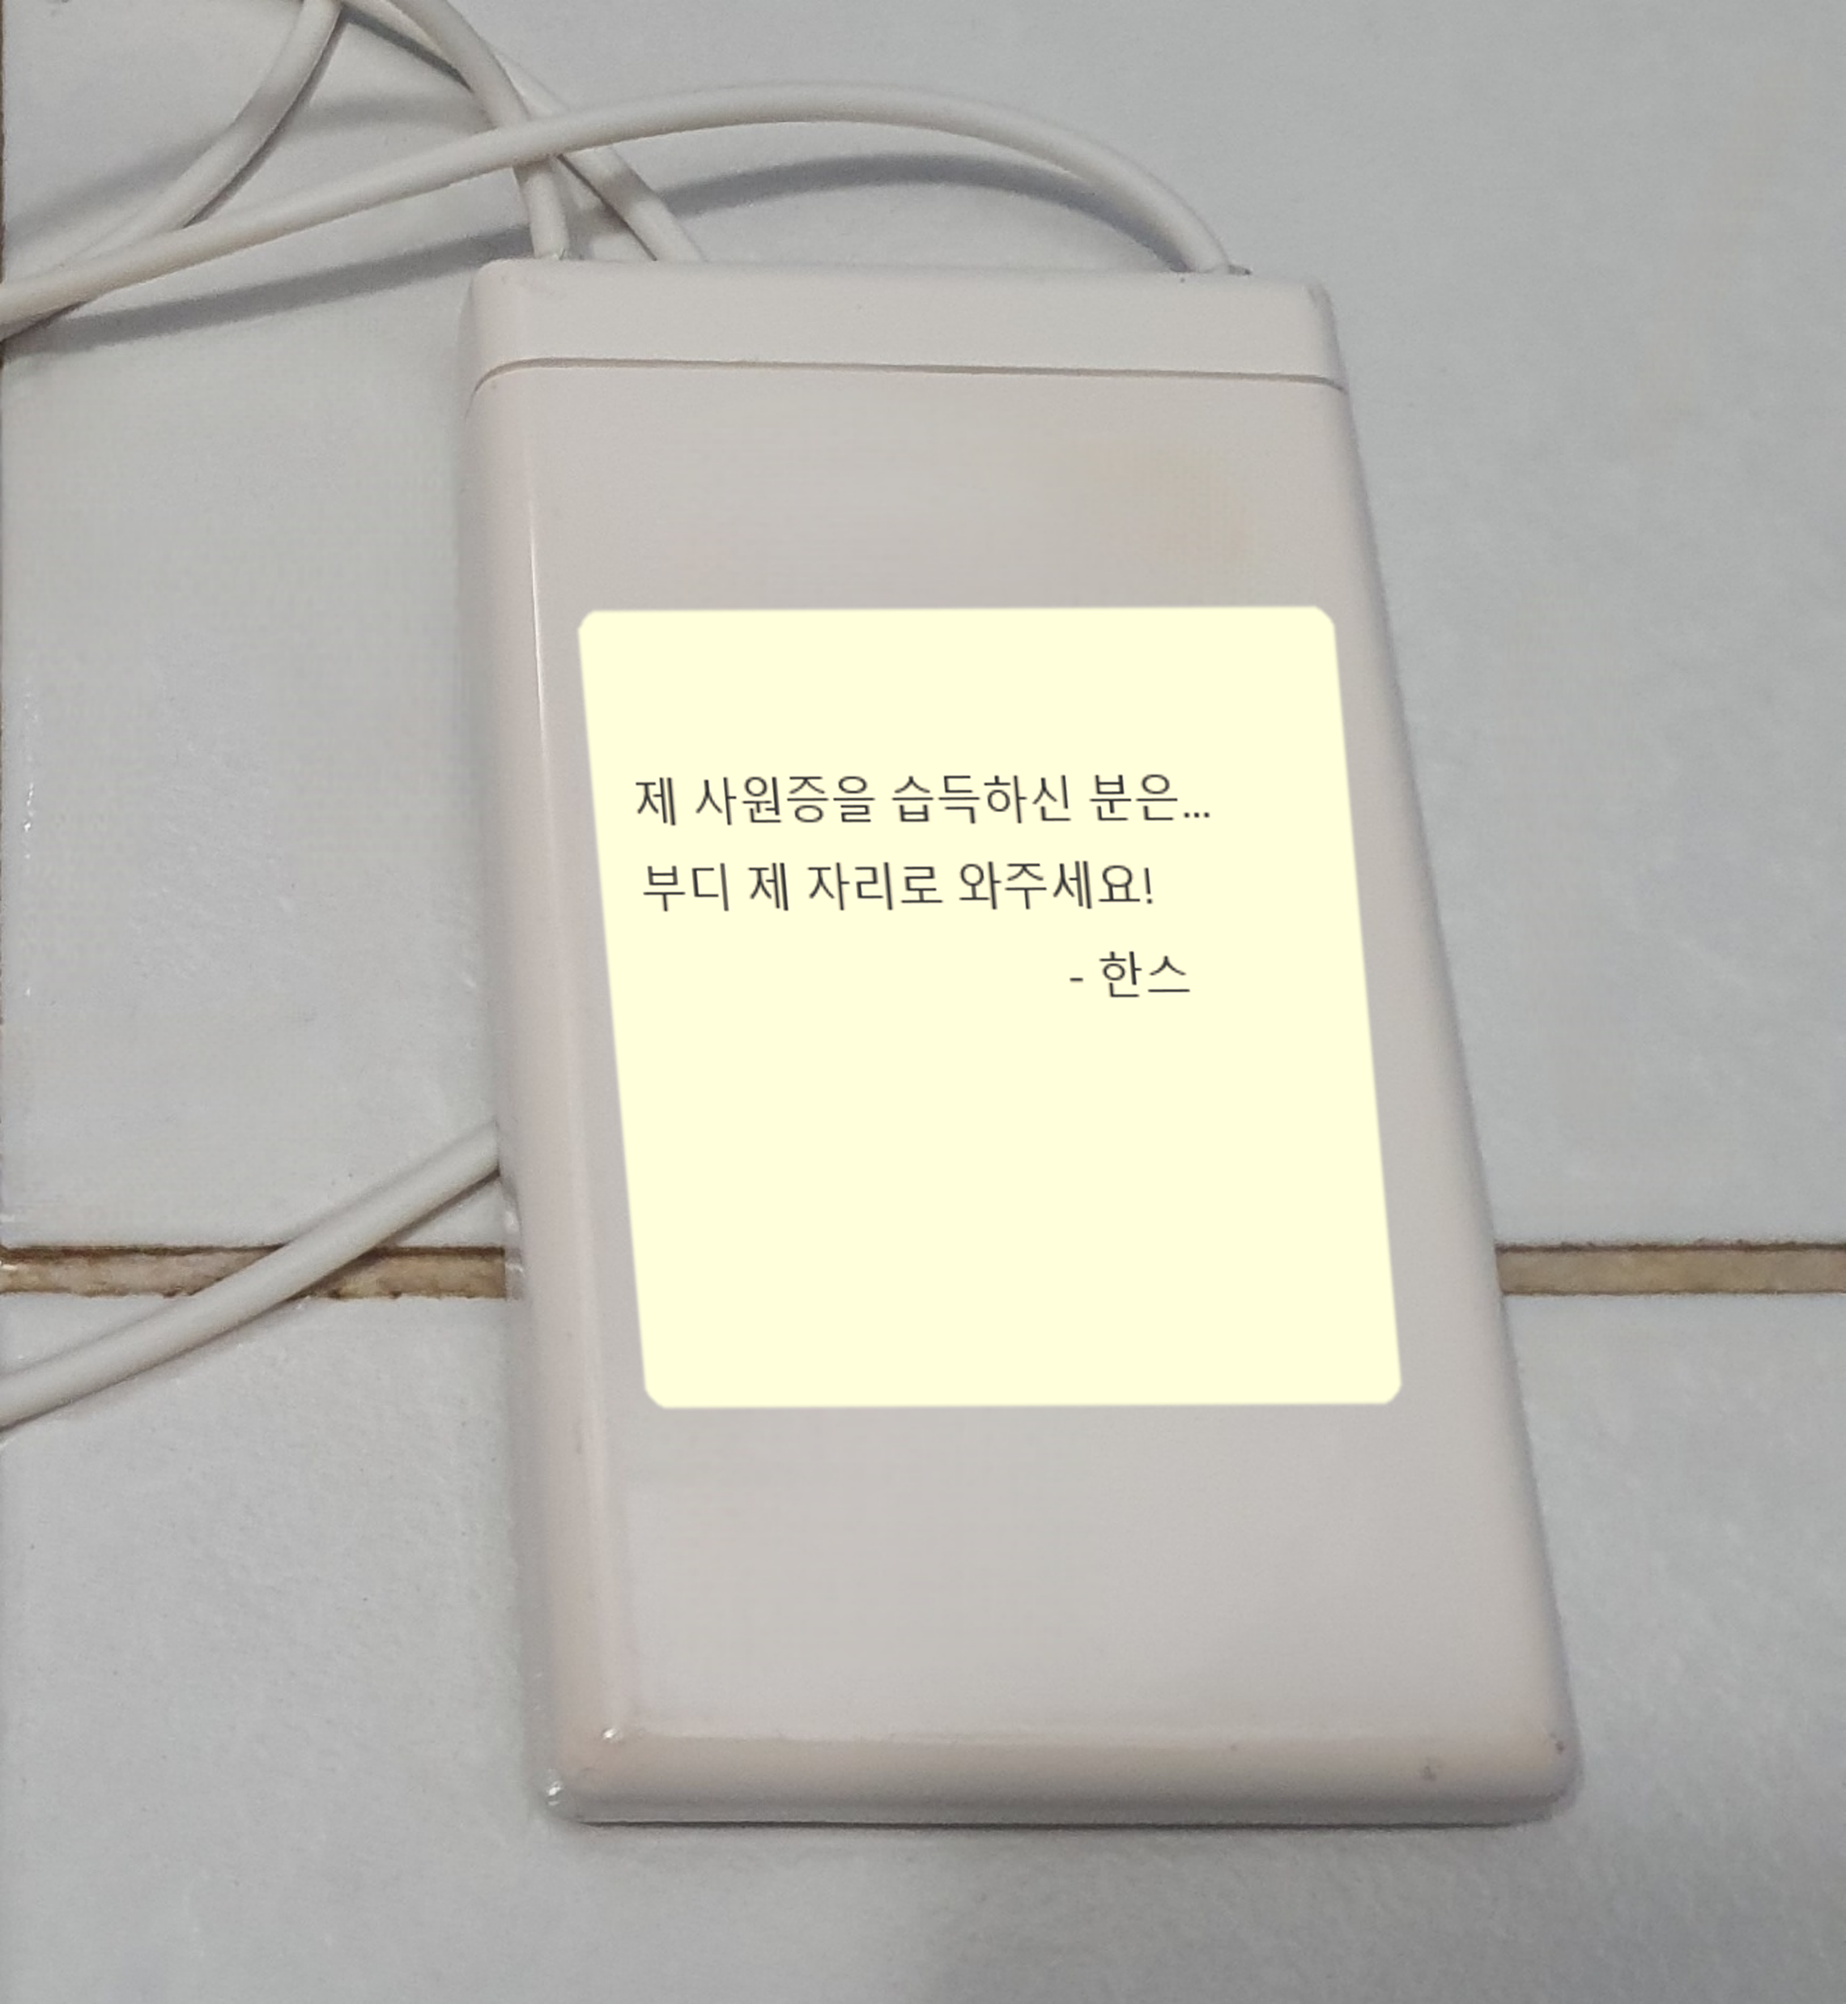
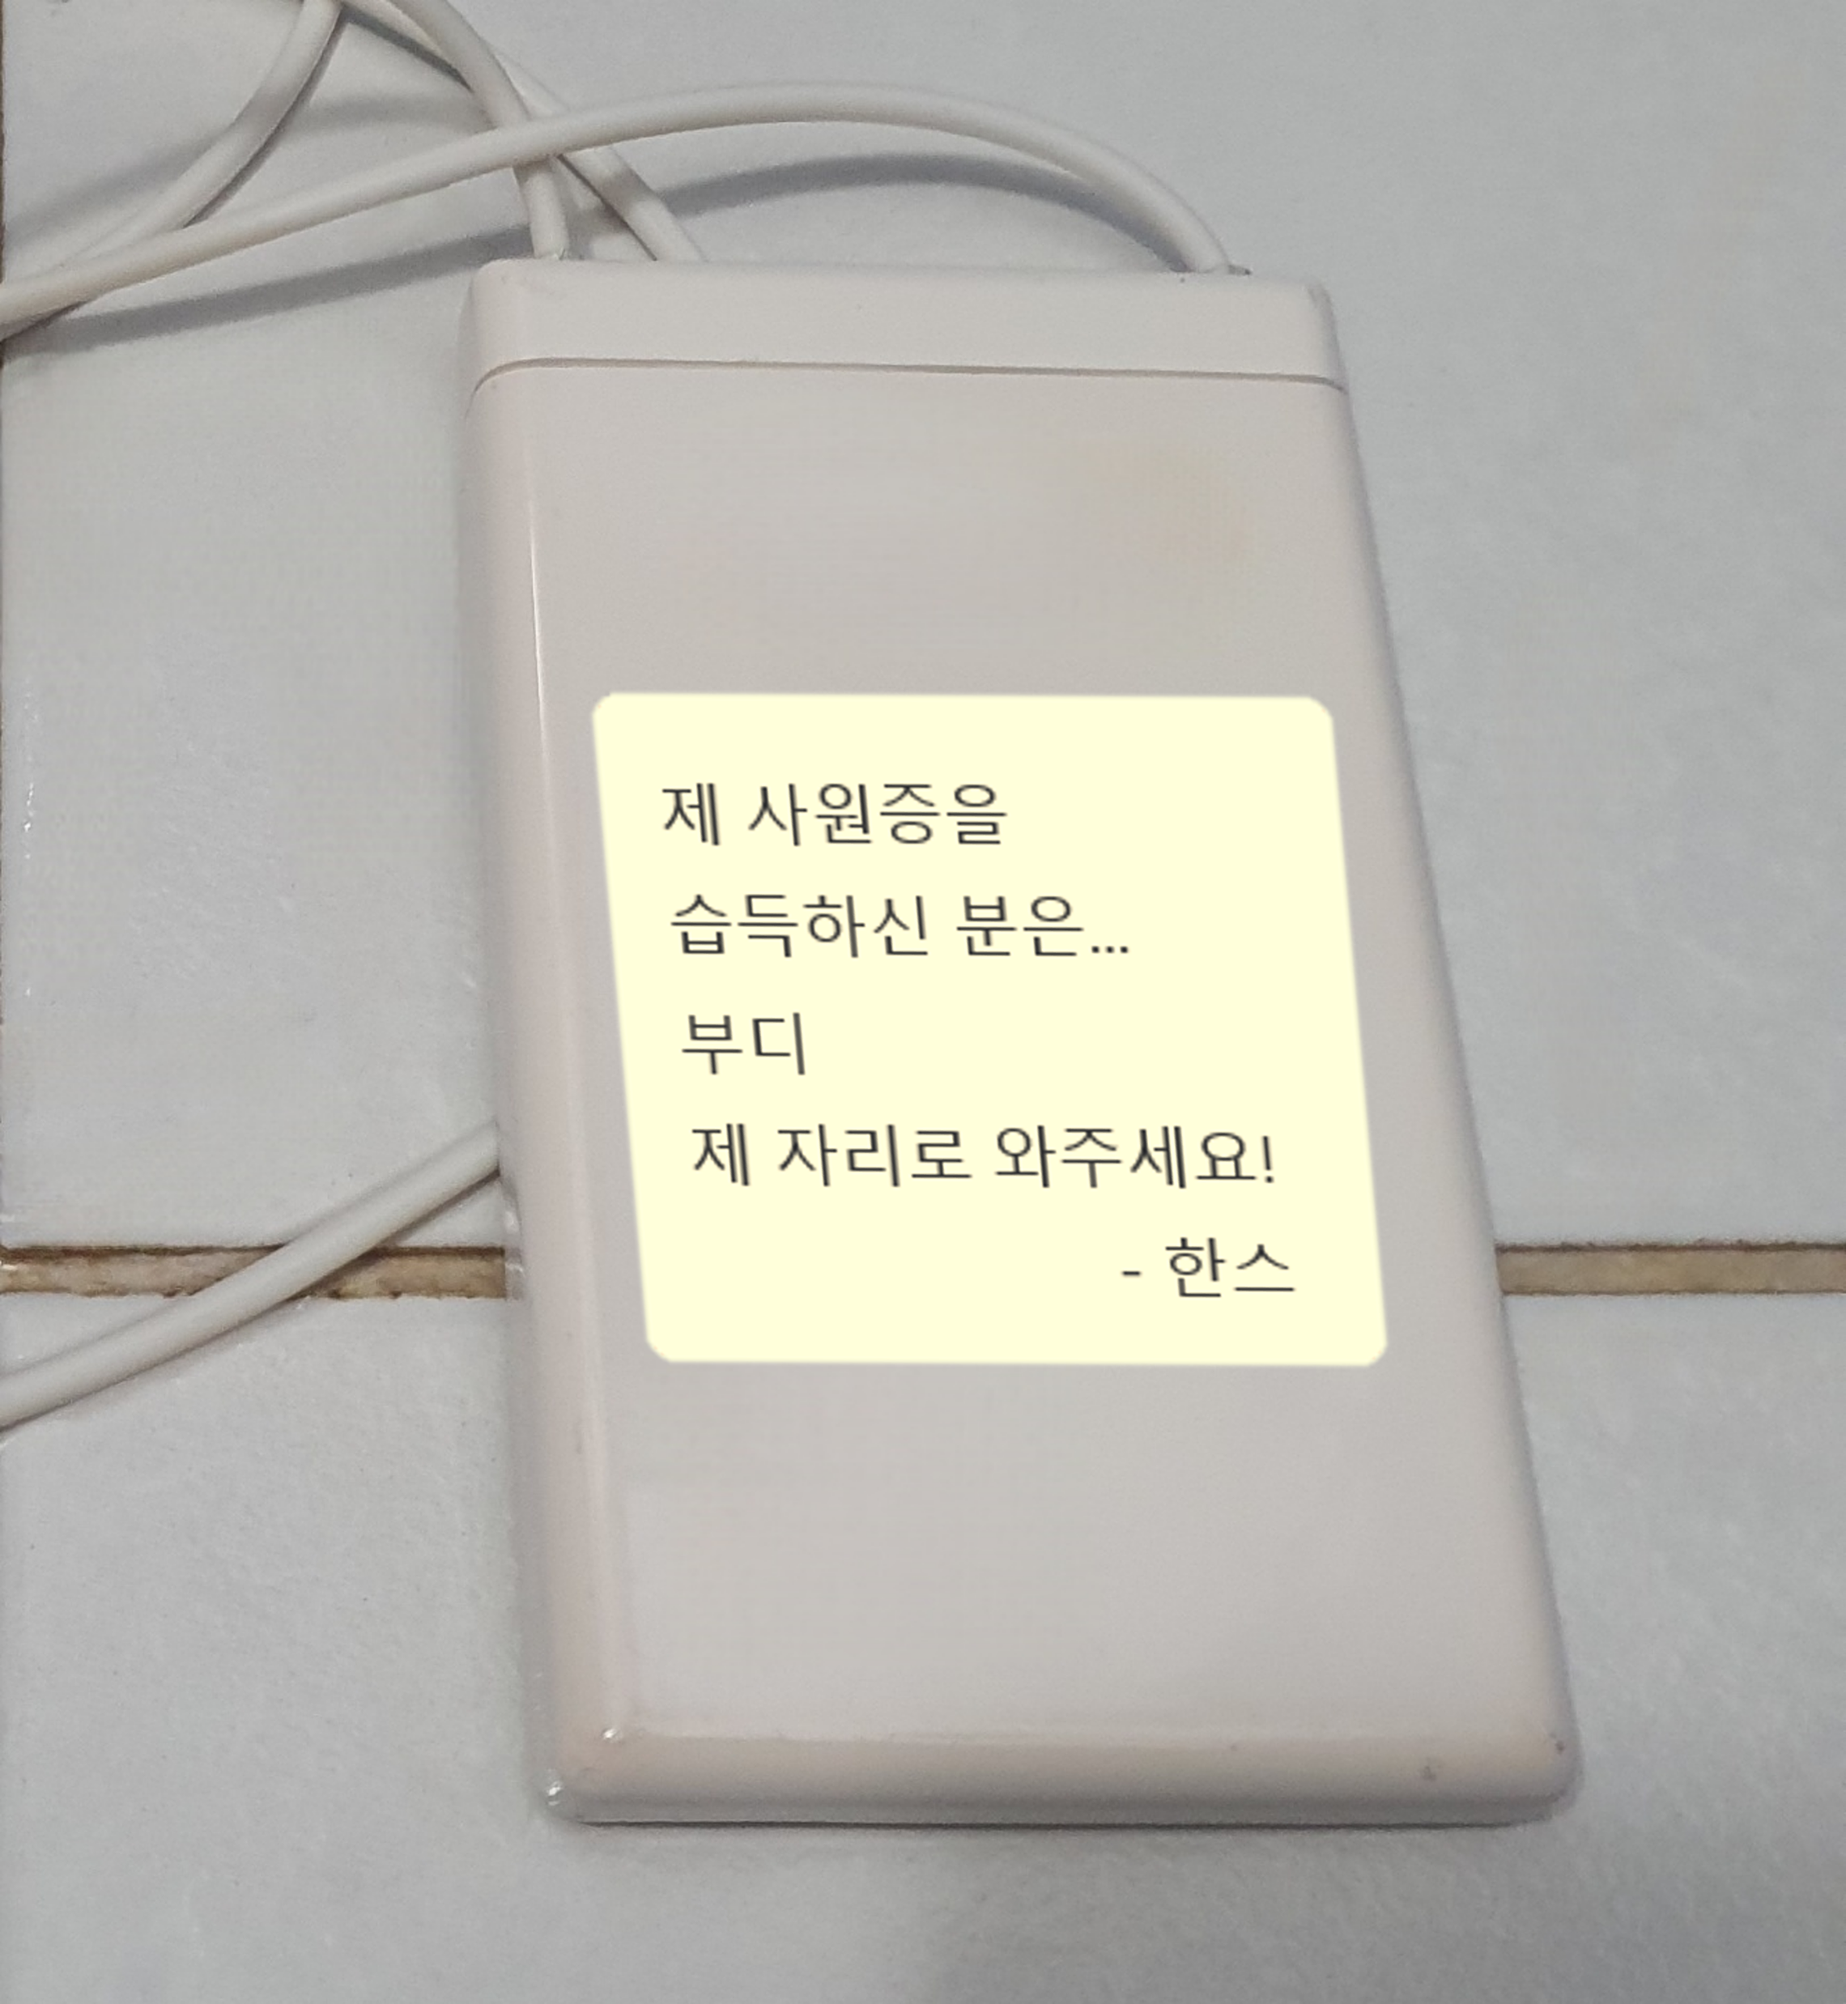
image dialog update

Changed region(s): [[0.3114, 0.28, 0.7474, 0.5911], [0.3425, 0.5911, 0.7785, 0.7156], [0.3737, 0.56, 0.6851, 0.5911]]

diff --git a/seekHANSout/floor5/widget/dialog/image.html b/seekHANSout/floor5/widget/dialog/image.html
@@ -7,7 +7,7 @@
 			}
 
 			#dialog {
-				height: 85%;
+				height: 95%;
 				padding: 5px;
 
 				background-color: rgb(255, 255, 255);
@@ -25,72 +25,34 @@
 				background-color: white;
 			}
 
-			header {
-				display: flex;
+			.imageWrapper {
+				width: min(80vw, 400px);
+				height: min(80vw, 400px);
+
+				margin: 0 auto;
 			}
 
-			h3 {
-				margin: 0;
-			}
-
-			.closeButton {
-				margin-left: auto;
-				font-size: 20px;
-				font-weight: 600;
-
-				-webkit-user-select:none;
-				-moz-user-select:none;
-				-ms-user-select:none;
-				user-select:none
-			}
-
-			.closeButton img {
-				width: 24px;
-				height: 24px;
-			}
-
-			.Box {
+			img {
 				width: 100%;
-				display: flex;
+				height: 100%;
+			}
+
+			.box {
+				width: 100%;
 				margin-top: 4px;
 			}
 
-			#options {
-				width: 100%;
+			.flex {
+				display: flex;
 			}
 
-			.optionGuide {
-				width: 10%;
+			.onRight {
+				margin-left: auto;
+			}
+
+			.button {
+				width: 72px;
 				height: 32px;
-
-				line-height: 32px;
-				font-weight: 600;
-				text-align: center;
-			}
-
-			.option {
-				width: 100%;
-				height: 32px;
-				margin-bottom: 4px;
-
-				border: solid 1px #ccc;
-				border-radius: 4px;
-				background-color: #f3f2ff;
-
-				line-height: 32px;
-				color: black;
-				text-align: center;
-			}
-
-			.option.selected {
-				background-color: #e9e8ff;
-				color: #6758ff;
-			}
-
-			#button {
-				width: 80%;
-				height: 32px;
-				margin: 0 auto;
 
 				border: solid 1px white;
 				border-radius: 4px;
@@ -100,138 +62,66 @@
 				color: white;
 				text-align: center;
 			}
-
-			.disable {
-				background-color: gray !important;
-			}
 		</style>
 	</head>
 	<body>
 		<div class="container">
 			<div id="dialog" class="dialogWrapper">
-				<img src="./hansCard.jpg" alt="hans" />
-				<header>
-					<h3 id="name"></h3>
-					<div onclick="javascript:handleCloseButton()" class="closeButton"><img src="https://zep.us/images/svg/close__icon.svg" /></div>
-				</header>
-				<p id="text"></p>
-				<div id="optionBox" class="Box none">
-					<div class="optionGuide">>></div>
-					<div id="options"></div>
-				</div>
-				<div class="Box">
-					<div id="button" class="disable" onclick="javascript:handleButton()">확인</div>
+				<div id="imageBox"></div>
+				<div class="flex box">
+					<div class="flex onRight ">
+						<div id="nextButton" class="button" onclick="javascript:nextImage()"></div>
+						<div class="button" onclick="javascript:handleCloseButton()">확인</div>
+					</div>
 				</div>
 			</div>
 		</div>
 		<script type="text/javascript">
-			const ACTION_TYPE = {
-				1: 'NORMAL',
-				2: 'INPUT',
-				3: 'IMAGE',
-			};
-
-			let dialogFlow = null;
-			let condition = null;
-			let selectedOptionNo = -1;
-			let selectedLink = -11;
-			let selectedCheckListNo = -1;
+			let condition, imageList, nextButtonText, imgNo;
 
 			window.addEventListener("message", (e) => {
-				const type = ACTION_TYPE[e.data.type];
 				condition =  e.data.condition;
-				dialogFlow =  e.data.dialogFlow;
+				imageList = IMAGE_FLOW[e.data.dialogId].imageList;
+				nextButtonText = IMAGE_FLOW[e.data.dialogId].nextButtonText ? IMAGE_FLOW[e.data.dialogId].nextButtonText : '다음';
 
-				if (type == ACTION_TYPE[1]){
-					document.getElementById("name").innerText = dialogFlow[0].name;
-					document.getElementById("text").innerText = dialogFlow[0].text;
-
-					if(dialogFlow[0].options){
-						document.getElementById("optionBox").classList.remove('none');
-						setOptions(0);
-					}
-				} else if (type == ACTION_TYPE[2]) {
-
-				} else if (type == ACTION_TYPE[3]) {
-
-				}
+				init();
 			});
+			
+			const setImage = (no) => {
+				const IMG = `
+					<div class="imageWrapper">
+						<img src="${imageList[no]}" alt="hansCardImage"/>
+					</div>`;
+				document.getElementById('imageBox').innerHTML = IMG;
+			}
 
-			const setOptions = (flowNo) => {
-				let Options = document.getElementById("options");
-				Options.innerHTML = '';
+			const init = () => {
+				imgNo = 0;
+				setImage(imgNo);
+				if(imageList.length < 2)
+					document.getElementById('nextButton').remove();
+				else
+					document.getElementById('nextButton').innerHTML = nextButtonText;
+			}
 
-				dialogFlow[flowNo].options.forEach(oi => {
-					const listNo = oi.link == -3 ? oi.listNo : -1;
-
-					if(oi.condition){
-						if(condition.includes(oi.condition)) {
-							Options.innerHTML += 
-								`<button 
-									id="option${oi.number}"
-									class="option" 
-									onclick="javascript:handleSelectOption(${oi.number}, ${oi.link}, ${listNo})"
-								>
-									${oi.conditionText}
-								</button>`;
-						} else {
-							Options.innerHTML += 
-								`<button class="option disable">${oi.text}</button>`;
-						}
-					} else {
-						Options.innerHTML += 
-							`<button
-								id="option${oi.number}"
-								class="option"
-								onclick="javascript:handleSelectOption(${oi.number}, ${oi.link}, ${listNo})"
-							>
-								${oi.text}
-							</button>`;
-					}
-				});
+			const nextImage = () => {
+				imgNo += 1;
+				if (imgNo >= imageList.length) imgNo = 0;
+				setImage(imgNo);
 			}
 
 			const handleCloseButton = () => {
 				window.parent.postMessage({type: "closeDialog"}, "*");
 			}
 
-			const handleSelectOption = (optNo, link, listNo = -1) => {
-				if(selectedOptionNo != -1){
-					document.getElementById(`option${selectedOptionNo}`).classList.remove("selected");
-				}
-				
-				selectedOptionNo = optNo;
-				selectedLink = link;
-				selectedCheckListNo = listNo;
-				document.getElementById(`option${optNo}`).classList.add("selected");
-				document.getElementById("button").classList.remove("disable");
-			}
-
-			const handleButton = () => {
-				if (selectedLink == -1){
-					handleCloseButton();
-				} else if(selectedLink == -2) {
-					window.parent.postMessage({type: "speedUp"}, "*");
-				} else if(selectedLink == -3) {
-					window.parent.postMessage({type: "setCheckList", listNo: selectedCheckListNo}, "*");
-				// } else if(selectedLink == -4) {
-				// 	window.parent.postMessage({type: "backToSeat"}, "*");
-				} else {
-					document.getElementById("name").innerText = dialogFlow[selectedLink].name;
-					document.getElementById("text").innerText = dialogFlow[selectedLink].text;
-					
-					if (dialogFlow[selectedLink].options) {
-						setOptions(selectedLink);
-					} else {
-						document.getElementById("optionBox").classList.add('none');
-					}
-				}
-				
-				selectedOptionNo = -1;
-				selectedLink = -11;
-				selectedCheckListNo = -1;
-				document.getElementById("button").classList.add("disable");
-			}
+			const IMAGE_FLOW = [
+				{	
+					nextButtonText: '뒤집기',
+					imageList: [
+						"https://github.com/rlaghdcjf12/ZEP/blob/main/seekHANSout/floor5/assets/hansCardOnToilet.jpg?raw=true",
+						"https://github.com/rlaghdcjf12/ZEP/blob/main/seekHANSout/floor5/assets/hansCardMemo1.png?raw=true"]
+				},
+			]
 		</script>
 	</body>
 </html>

diff --git a/seekHANSout/floor5/main.js b/seekHANSout/floor5/main.js
@@ -201,6 +201,11 @@ const dialogType = {
   3: 'image',
 };
 
+const dialogSize = {
+  0: [30, 10, 30, 10, 35, 25, 35, 25],
+  3: [20, 5, 20, 5, 20, 30, 20, 30],
+};
+
 const openDialog = (type, player, dialogId) => {
   if (type == 0 && !player.tag.condition.includes('noName')) {
     type = 1; // 이름 설정 후 type 보정
@@ -208,9 +213,13 @@ const openDialog = (type, player, dialogId) => {
 
   if (player.tag.widgetDialog == null) {
     player.tag.widgetDialogType = dialogType[type];
-    player.tag.widgetDialog = player.isMobile
-      ? player.showWidgetResponsive(`widget/dialog/${dialogType[type]}.html`, 30, 10, 30, 10)
-      : player.showWidgetResponsive(`widget/dialog/${dialogType[type]}.html`, 35, 25, 35, 25);
+    player.tag.widgetDialog = player.showWidgetResponsive(
+      `widget/dialog/${dialogType[type]}.html`,
+      dialogSize[type == 3 ? 3 : 0][player.isMobile ? 0 : 4],
+      dialogSize[type == 3 ? 3 : 0][player.isMobile ? 1 : 5],
+      dialogSize[type == 3 ? 3 : 0][player.isMobile ? 2 : 6],
+      dialogSize[type == 3 ? 3 : 0][player.isMobile ? 3 : 7]
+    );
     player.tag.widgetDialog.onMessage.Add(function (player, msg) {
       if (msg.type == 'closeDialog') {
         closeDialog(player);

diff --git a/seekHANSout/floor5/widget/dialog/setName.html b/seekHANSout/floor5/widget/dialog/setName.html
@@ -95,7 +95,7 @@
 			#button {
 				width: 72px;
 				height: 32px;
-				margin: 0 auto;
+				margin-left: auto;
 
 				border: solid 1px white;
 				border-radius: 4px;

diff --git a/seekHANSout/floor5/widget/dialog/normal.html b/seekHANSout/floor5/widget/dialog/normal.html
@@ -88,7 +88,7 @@
 			}
 
 			#button {
-				width: 80%;
+				width: 72px;
 				height: 32px;
 				margin-left: auto;
 
